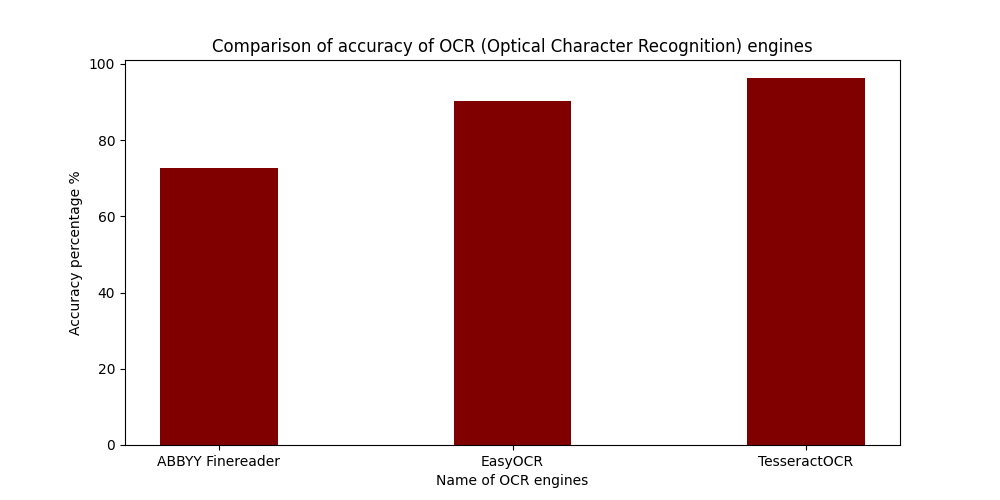
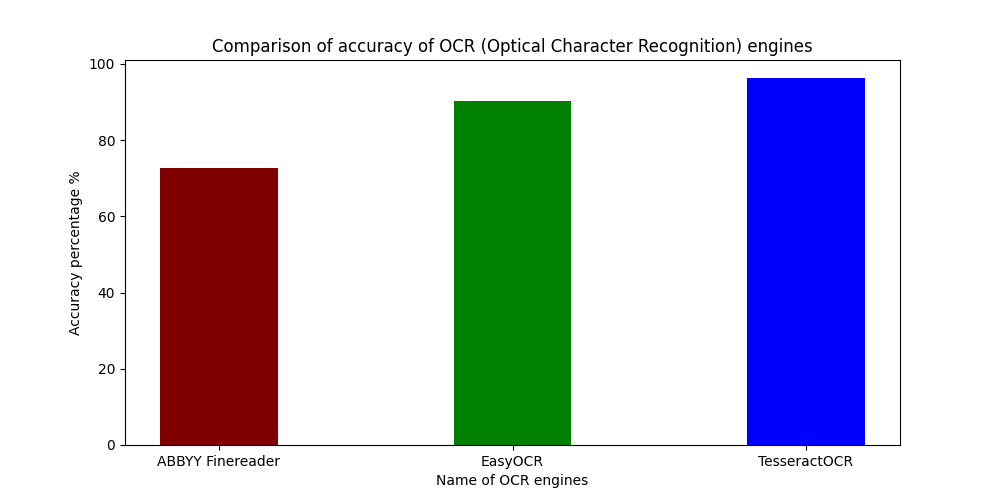
Bar chart fixed

Changed region(s): [[0.434, 0.18, 0.589, 0.9], [0.744, 0.15, 0.868, 0.9]]

diff --git a/bar_chart.py b/bar_chart.py
@@ -8,7 +8,7 @@ values = list(data.values())
 fig = plt.figure(figsize=(10, 5))
 
 # creating the bar plot
-plt.bar(courses, values, color='maroon',
+plt.bar(courses, values, color=['maroon', 'green', 'blue'],
         width=0.4)
 
 plt.xlabel("Name of OCR engines")
